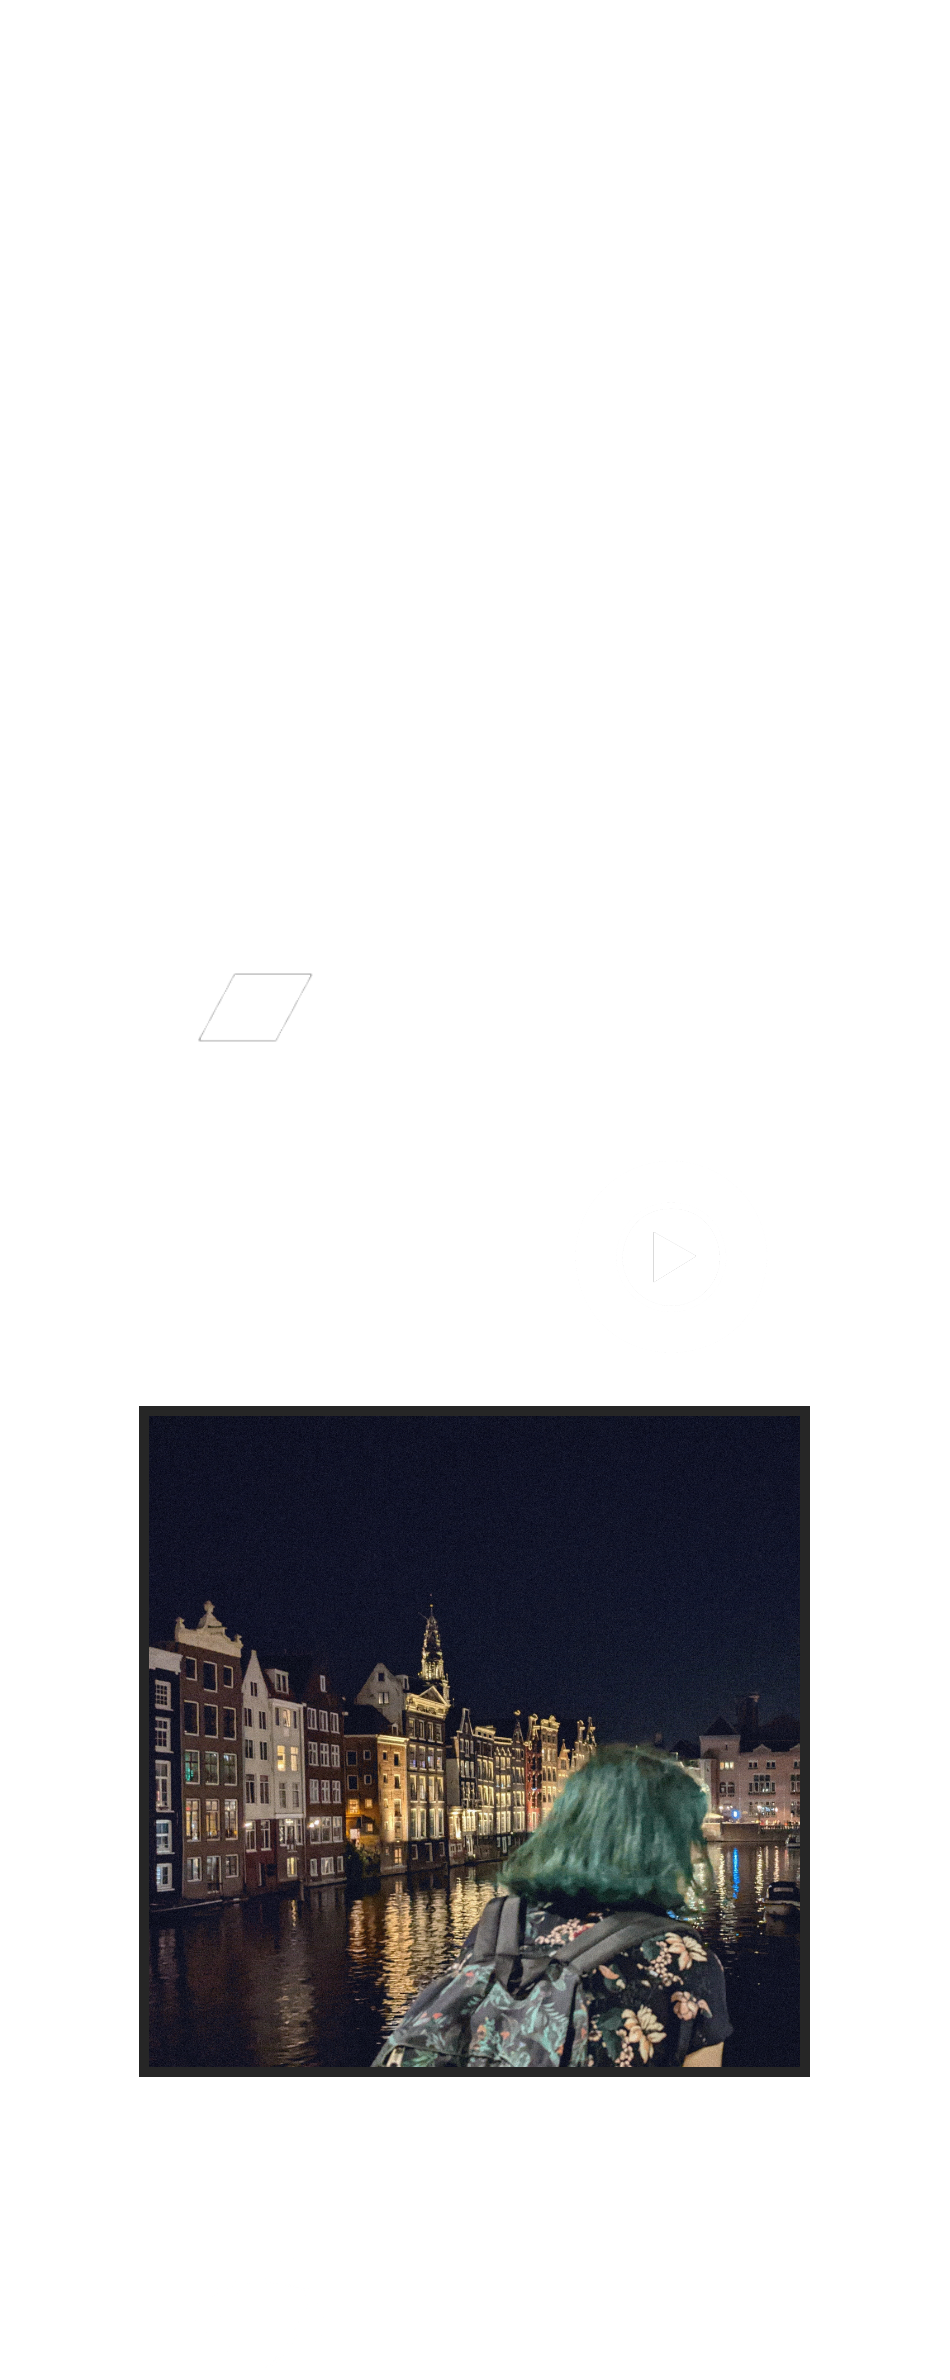
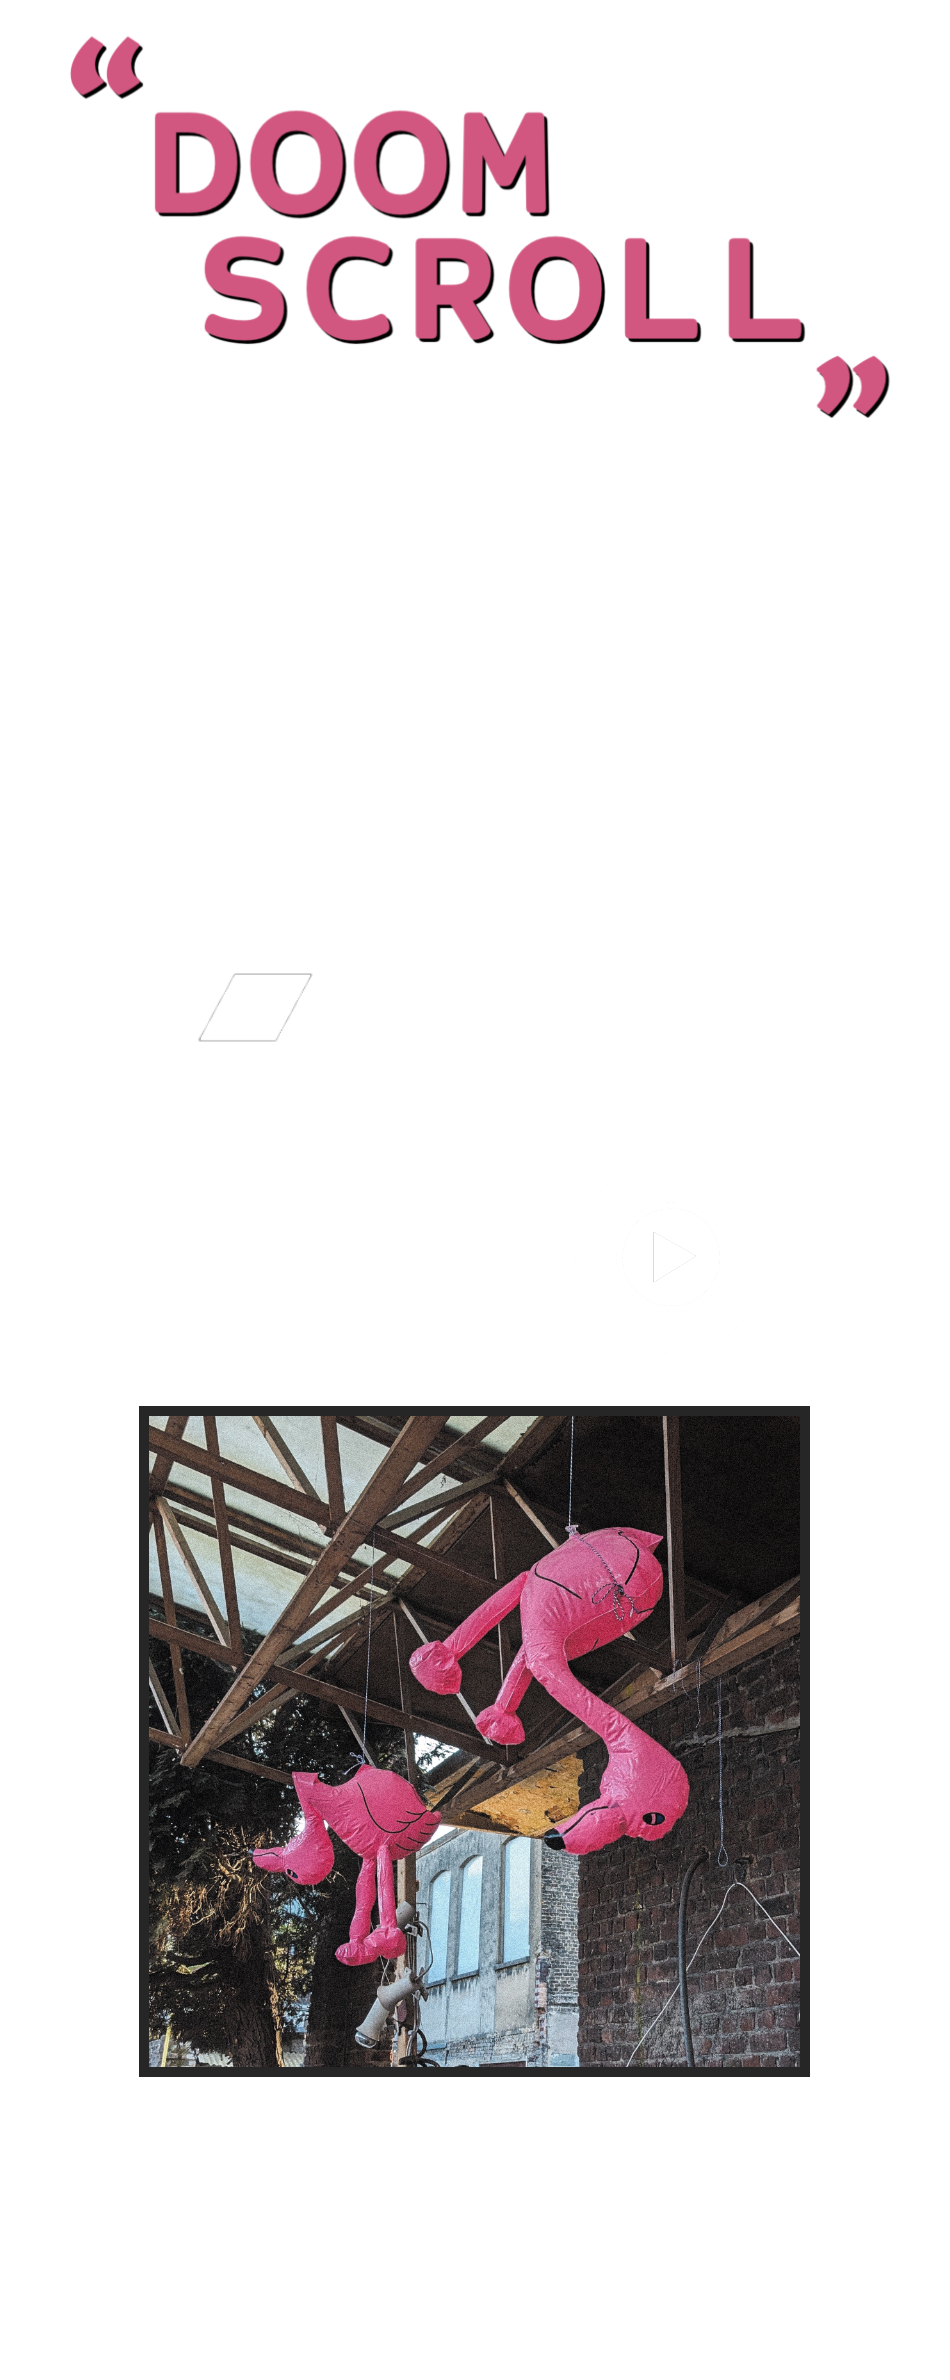
new album babyyy

Changed region(s): [[0.1526, 0.5908, 0.8547, 0.8706], [0.0611, 0.0, 0.7326, 0.1555], [0.7632, 0.0933, 0.9463, 0.1866]]

diff --git a/music.html b/music.html
@@ -1,171 +1,191 @@
-<!DOCTYPE html>
-<html>
+<!doctype html>
+<html lang="en">
+    <head>
+        <title>lyra messier</title>
 
-<head>
-    <title>lyra messier</title>
+        <link rel="apple-touch-icon" sizes="180x180" href="/meta/apple-touch-icon.png" />
+        <link rel="icon" type="image/png" sizes="32x32" href="/meta/favicon-32x32.png" />
+        <link rel="icon" type="image/png" sizes="16x16" href="/meta/favicon-16x16.png" />
+        <link rel="manifest" href="/meta/site.webmanifest" />
+        <link rel="shortcut icon" href="/meta/favicon.ico" />
+        <link rel="mask-icon" href="/meta/safari-pinned-tab.svg" color="#218D78" />
+        <meta name="mobile-web-app-capable" content="yes" />
+        <meta name="apple-mobile-web-app-capable" content="yes" />
+        <meta name="apple-mobile-web-app-status-bar-style" content="black-translucent" />
+        <meta name="apple-mobile-web-app-title" content="lyra messier" />
+        <meta name="application-name" content="lyra messier" />
+        <meta name="msapplication-TileColor" content="#1c806c" />
+        <meta name="msapplication-config" content="/meta/browserconfig.xml" />
+        <meta name="theme-color" content="#1c806c" />
 
-    <link rel="apple-touch-icon" sizes="180x180" href="/meta/apple-touch-icon.png">
-    <link rel="icon" type="image/png" sizes="32x32" href="/meta/favicon-32x32.png">
-    <link rel="icon" type="image/png" sizes="16x16" href="/meta/favicon-16x16.png">
-    <link rel="manifest" href="/meta/site.webmanifest">
-    <link rel="shortcut icon" href="/meta/favicon.ico">
-    <link rel="mask-icon" href="/meta/safari-pinned-tab.svg" color="#218D78">
-    <meta name="mobile-web-app-capable" content="yes">
-    <meta name="apple-mobile-web-app-capable" content="yes">
-    <meta name="apple-mobile-web-app-status-bar-style" content="black-translucent">
-    <meta name="apple-mobile-web-app-title" content="lyra messier">
-    <meta name="application-name" content="lyra messier">
-    <meta name="msapplication-TileColor" content="#1c806c">
-    <meta name="msapplication-config" content="/meta/browserconfig.xml">
-    <meta name="theme-color" content="#1c806c">
+        <meta name="author" content="lyra messier" />
+        <meta name="description" content="“Doomscroll” out now" />
+        <meta
+            name="keywords"
+            content="lyra, messier, msr, lyramsr, lyra lambert, lyra braekevelt, music, musician, belgium, muziek, muzikant, album, song, doomscroll, postcards, echo, chamber, passive, activist, supernova, sevastopol" />
 
-    <meta name="author" content="lyra messier">
-    <meta name="description" content="hi!">
-    <meta name="keywords" content="lyra, messier, msr, lyramsr, lyra lambert, lyra braekevelt, music, musician, belgium, muziek, muzikant, album, song, sevastopol, artificial, light, destroyer, spacetravelisfinite, cut, the, lights">
+        <meta name="twitter:card" content="summary_large_image" />
+        <meta name="twitter:creator" content="@lyramsr" />
+        <meta name="twitter:description" content="new music out now" />
+        <meta name="twitter:domain" content="https://lyramsr.co" />
+        <meta name="twitter:image" content="/meta/music/metaimg.jpg" />
+        <meta name="twitter:image:height" content="1000px" />
+        <meta name="twitter:image:width" content="2000px" />
+        <meta name="twitter:site" content="@lyramsr" />
+        <meta name="twitter:title" content="lyra messier – LP7" />
 
-    <meta name="twitter:card" content="summary_large_image">
-    <meta name="twitter:creator" content="@lyramsr">
-    <meta name="twitter:description" content="new music out now">
-    <meta name="twitter:domain" content="https://lyramsr.co">
-    <meta name="twitter:image" content="/meta/music/metaimg.jpg">
-    <meta name="twitter:image:height" content="1000px">
-    <meta name="twitter:image:width" content="2000px">
-    <meta name="twitter:site" content="@lyramsr">
-    <meta name="twitter:title" content="lyra messier: the new album">
+        <meta property="og:description" content="“Doomscroll” out now" />
+        <meta property="og:image" content="/meta/music/metaimg.jpg" />
+        <meta property="og:image:type" content="image/png" />
+        <meta property="og:image:height" content="1000" />
+        <meta property="og:image:width" content="2000" />
+        <meta property="og:site_name" content="lyra messier – LP7" />
+        <meta property="og:title" content="lyra messier – LP7" />
+        <meta property="og:url" content="https://lyramsr.co/music" />
 
-    <meta property="og:description" content="new music out now">
-    <meta property="og:image" content="/meta/music/metaimg.jpg">
-    <meta property="og:image:type" content="image/png">
-    <meta property="og:image:height" content="1000">
-    <meta property="og:image:width" content="2000">
-    <meta property="og:site_name" content="lyra messier: the new album">
-    <meta property="og:title" content="lyra messier: the new album">
-    <meta property="og:url" content="https://lyramsr.co/music">
+        <meta name="viewport" content="width=device-width, height=device-height, initial-scale=1.0" />
 
-    <meta name="viewport" content="width=device-width, height=device-height, initial-scale=1.0">
+        <link rel="stylesheet" href="/iosevka/iosevka.css" />
 
-    <link rel="stylesheet" href="/iosevka/iosevka.css">
-
-    <style>
-        body {
-            background: #262626;
-            : :-webkit-user-select: none;
-        }
-
-        html,
-        body,
-        div {
-            margin: 0;
-            padding: 0;
-            height: 100%;
-            overflow: hidden;
-        }
-
-        ::selection {
-            background: transparent;
-        }
-
-        * {
-            transition: all 0.14s ease;
-        }
-
-        :root:before {
-            content: url(/img/music/imagemap_glitch.png);
-            visibility: hidden;
-            position: absolute;
-            left: -999em;
-        }
-
-        #alpha {
-            height: 100%;
-            width: 100%;
-            background: url(/img/music/wall.jpg);
-            background-position: bottom center;
-            background-attachment: fixed;
-            background-size: cover;
-        }
-
-        #delta {
-            position: fixed;
-            width: 100vw;
-            height: 70vh;
-            top: 50vh;
-            margin-top: -35vh;
-        }
-
-        #delta>img {
-            display: block;
-            height: 100%;
-            width: auto;
-            margin: 0 auto;
-            filter: drop-shadow(4px 4px 4px rgba(0, 0, 0, 0.8));
-        }
-
-        @media only screen and (max-height: 570px) {
-            #delta {
-                height: 400px;
-                margin-top: -200px;
+        <style>
+            body {
+                background: #262626;
+                ::-webkit-user-select: none;
             }
-        }
 
-        .visible {
-            display: block !important;
-        }
+            html,
+            body,
+            div {
+                margin: 0;
+                padding: 0;
+                height: 100%;
+                overflow: hidden;
+            }
 
-    </style>
-    <script type="text/javascript" src="/script/prefixfree.min.js"></script>
-</head>
+            ::selection {
+                background: transparent;
+            }
 
-<body>
-    <div id="alpha">
-        <div id="delta">
-            <img draggable="false" id="imagemap" src="/img/music/imagemap.png" usemap="#map">
-            <map name="map">
-                <area shape="rect" coords="126, 395, 799, 626" href="https://open.spotify.com/album/3EsrjYSGWS7J4SxTHpJQuq" alt="Listen on Spotify" title="Listen on Spotify" target="_blank">
-                <area shape="rect" coords="139, 633, 783, 871" href="https://music.apple.com/be/album/lyra-messier-2023/1710629016" alt="Listen on Apple Music" title="Listen on Apple Music" target="_blank">
-                <area shape="rect" coords="139, 896, 720, 1128" href="https://lyramsr.bandcamp.com/album/lyra-messier-2023" alt="Buy on Bandcamp" title="Pre-order on Bandcamp" target="_blank">
-                <area shape="rect" coords="139, 1151, 786, 1367" href="https://music.youtube.com/playlist?list=OLAK5uy_mP2GOBGfsSfbM9sEs8ylgNlM1Zj1exMgY" alt="Listen on YouTube Music" title="Listen on YouTube Music" target="_blank">
-                <area shape="rect" coords="182, 2239, 766, 2380" href="/" alt="lyramsr.co" title="lyramsr.co">
-            </map>
+            * {
+                transition: all 0.14s ease;
+            }
+
+            :root:before {
+                content: url(/img/music/imagemap_glitch.png);
+                visibility: hidden;
+                position: absolute;
+                left: -999em;
+            }
+
+            #alpha {
+                height: 100%;
+                width: 100%;
+                background: url(/img/music/wall.gif);
+                background-position: bottom center;
+                background-attachment: fixed;
+                background-size: cover;
+            }
+
+            #delta {
+                position: fixed;
+                width: 100vw;
+                height: 70vh;
+                top: 50vh;
+                margin-top: -35vh;
+            }
+
+            #delta > img {
+                display: block;
+                height: 100%;
+                width: auto;
+                margin: 0 auto;
+                filter: drop-shadow(4px 4px 4px rgba(0, 0, 0, 0.2));
+            }
+
+            @media only screen and (max-height: 570px) {
+                #delta {
+                    height: 400px;
+                    margin-top: -200px;
+                }
+            }
+
+            .visible {
+                display: block !important;
+            }
+        </style>
+        <script type="text/javascript" src="/script/prefixfree.min.js"></script>
+    </head>
+
+    <body>
+        <div id="alpha">
+            <div id="delta">
+                <img draggable="false" id="imagemap" src="/img/music/imagemap.png" usemap="#map" />
+                <map name="map">
+                    <area
+                        shape="rect"
+                        coords="126, 395, 799, 626"
+                        href="https://open.spotify.com/album/3EsrjYSGWS7J4SxTHpJQuq"
+                        alt="Listen on Spotify"
+                        title="Listen on Spotify"
+                        target="_blank" />
+                    <area
+                        shape="rect"
+                        coords="139, 633, 783, 871"
+                        href="https://music.apple.com/be/album/lyra-messier-2023/1710629016"
+                        alt="Listen on Apple Music"
+                        title="Listen on Apple Music"
+                        target="_blank" />
+                    <area
+                        shape="rect"
+                        coords="139, 896, 720, 1128"
+                        href="https://lyramsr.bandcamp.com/album/lp7"
+                        alt="Pre-order on Bandcamp"
+                        title="Pre-order on Bandcamp"
+                        target="_blank" />
+                    <area
+                        shape="rect"
+                        coords="139, 1151, 786, 1367"
+                        href="https://music.youtube.com/playlist?list=OLAK5uy_mP2GOBGfsSfbM9sEs8ylgNlM1Zj1exMgY"
+                        alt="Watch on YouTube"
+                        title="Watch on YouTube"
+                        target="_blank" />
+                    <area shape="rect" coords="182, 2239, 766, 2380" href="/" alt="lyramsr.co" title="lyramsr.co" />
+                </map>
+            </div>
+            <div id="glitch1"></div>
+            <div id="glitch2"></div>
         </div>
-        <div id="glitch1"></div>
-        <div id="glitch2"></div>
-    </div>
-    <script src="https://ajax.googleapis.com/ajax/libs/jquery/3.2.1/jquery.min.js"></script>
-    <script type="text/javascript" src="/script/imageMapResizer.min.js"></script>
-    <script type="text/javascript">
-        $('map').imageMapResize();
+        <script src="https://ajax.googleapis.com/ajax/libs/jquery/3.2.1/jquery.min.js"></script>
+        <script type="text/javascript" src="/script/imageMapResizer.min.js"></script>
+        <script type="text/javascript">
+            $("map").imageMapResize();
+        </script>
+        <script type="text/javascript">
+            function setmapglitch() {
+                $("#imagemap").attr("src", "/img/music/imagemap_glitch.png");
+            }
 
-    </script>
-    <script type="text/javascript">
-        function setmapglitch() {
-            $("#imagemap").attr('src', '/img/music/imagemap_glitch.png');
-        }
+            function setmap() {
+                $("#imagemap").attr("src", "/img/music/imagemap.png");
+            }
 
-        function setmap() {
-            $("#imagemap").attr('src', '/img/music/imagemap.png');
-        }
+            function mapglitch() {
+                setTimeout(function () {
+                    setmapglitch();
+                    setTimeout(function () {
+                        setmap();
+                        setTimeout(function () {
+                            setmapglitch();
+                            setTimeout(function () {
+                                setmap();
+                            }, 180);
+                        }, 4000);
+                    }, 150);
+                }, 7000);
+            }
 
-        function mapglitch() {
-            setTimeout(function() {
-                setmapglitch();
-                setTimeout(function() {
-                    setmap();
-                    setTimeout(function() {
-                        setmapglitch();
-                        setTimeout(function() {
-                            setmap();
-                        }, 180);
-                    }, 4000);
-                }, 150);
-            }, 7000);
-        }
-
-        mapglitch();
-        setInterval(mapglitch, 11330);
-
-    </script>
-
-</body>
-
+            mapglitch();
+            setInterval(mapglitch, 11330);
+        </script>
+    </body>
 </html>
